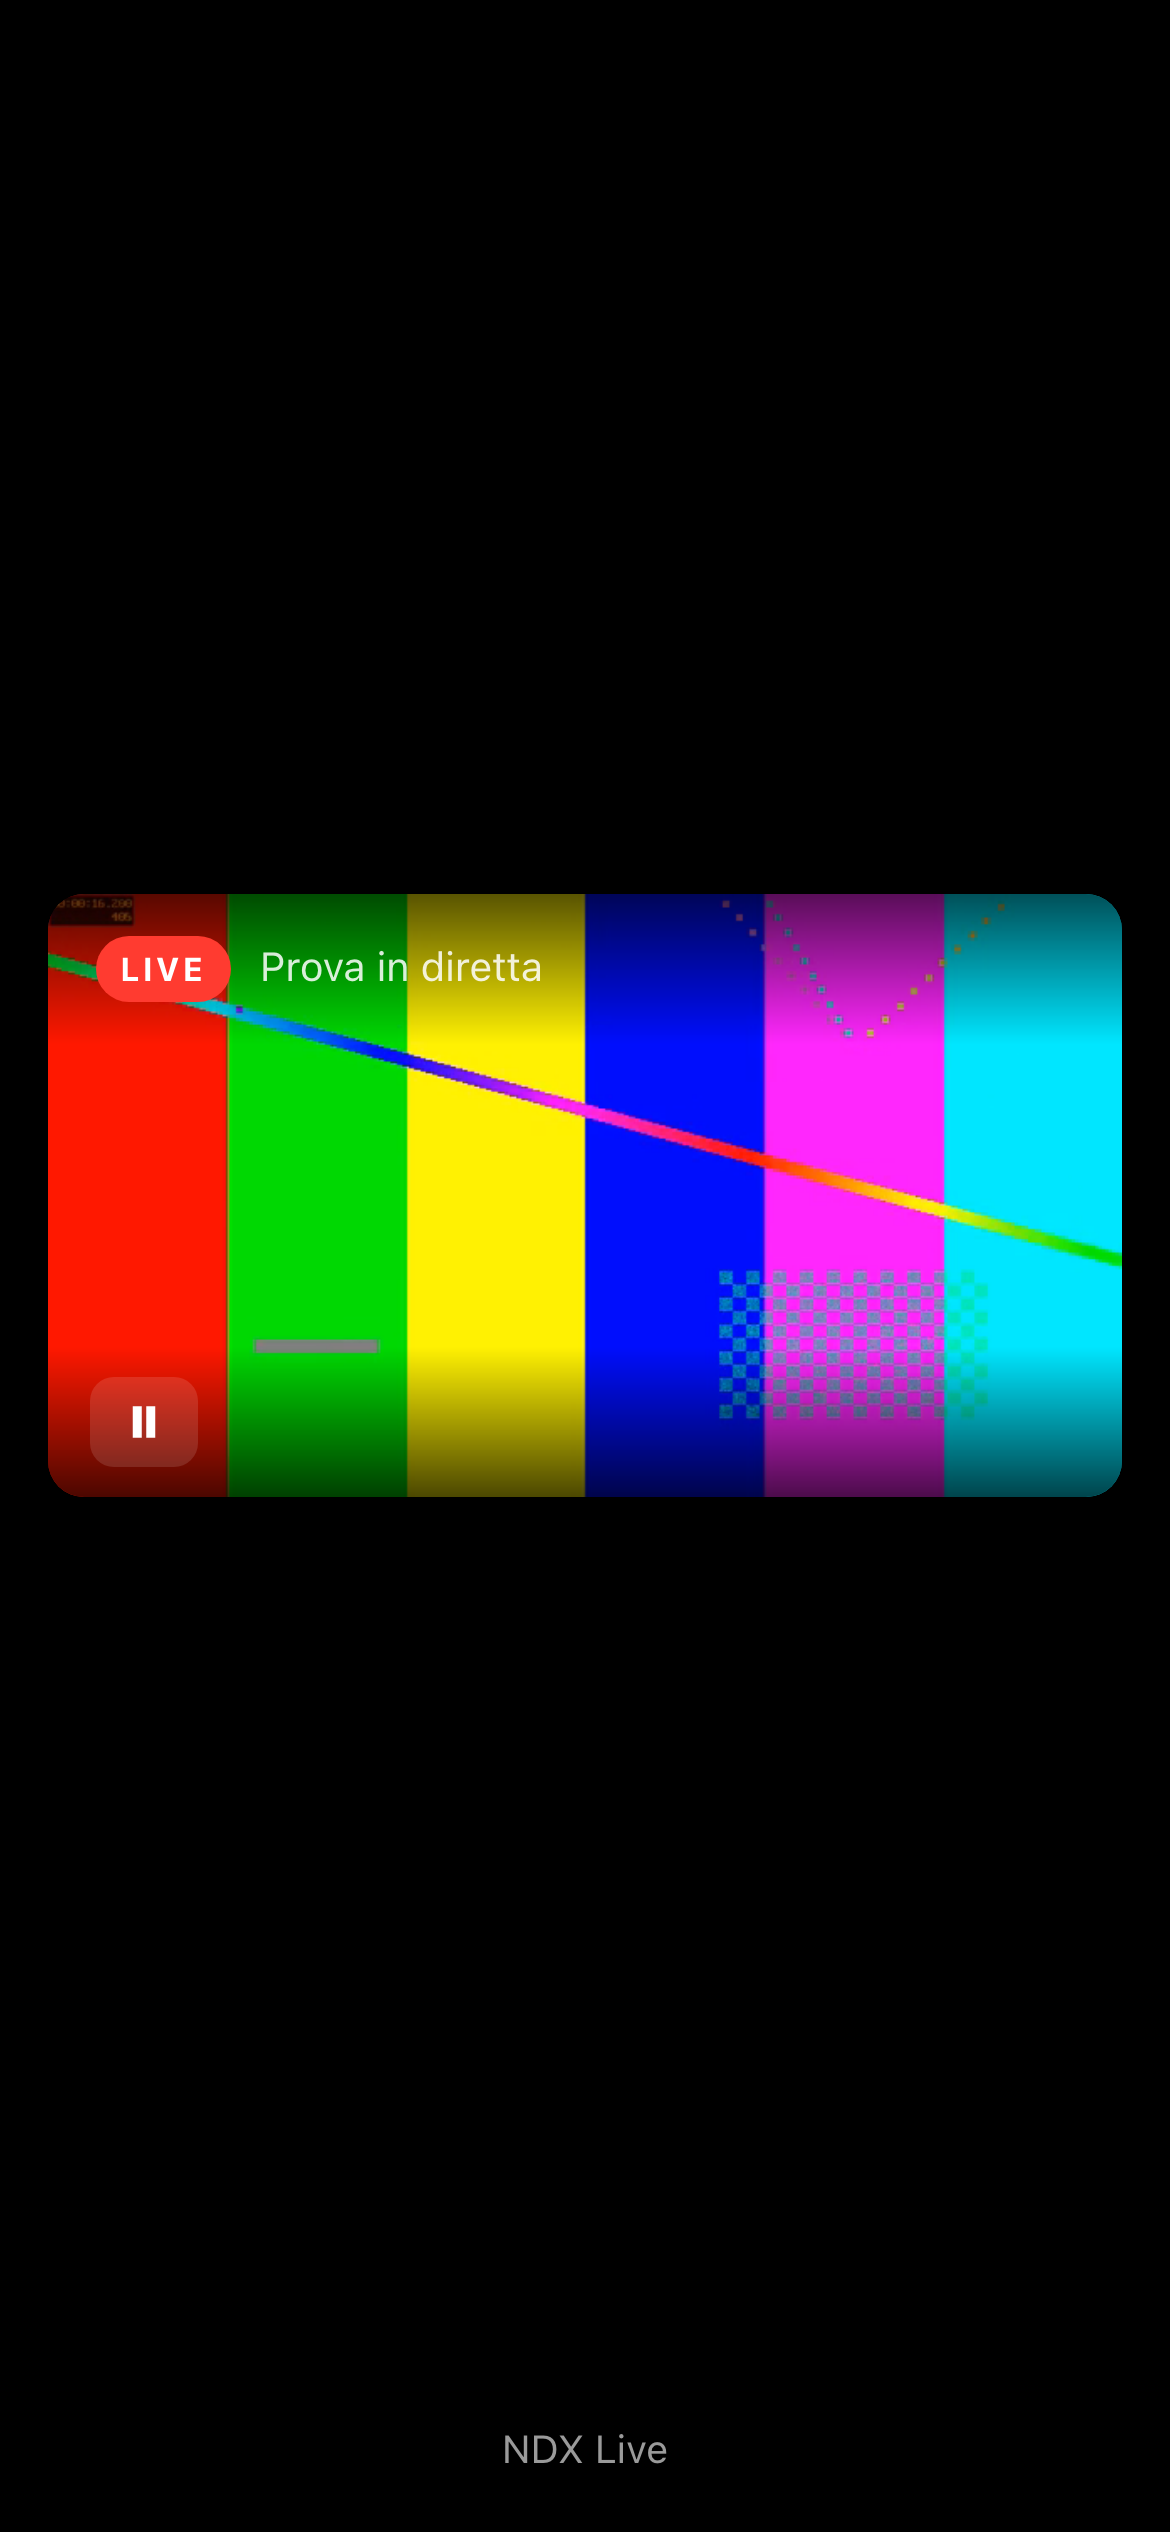
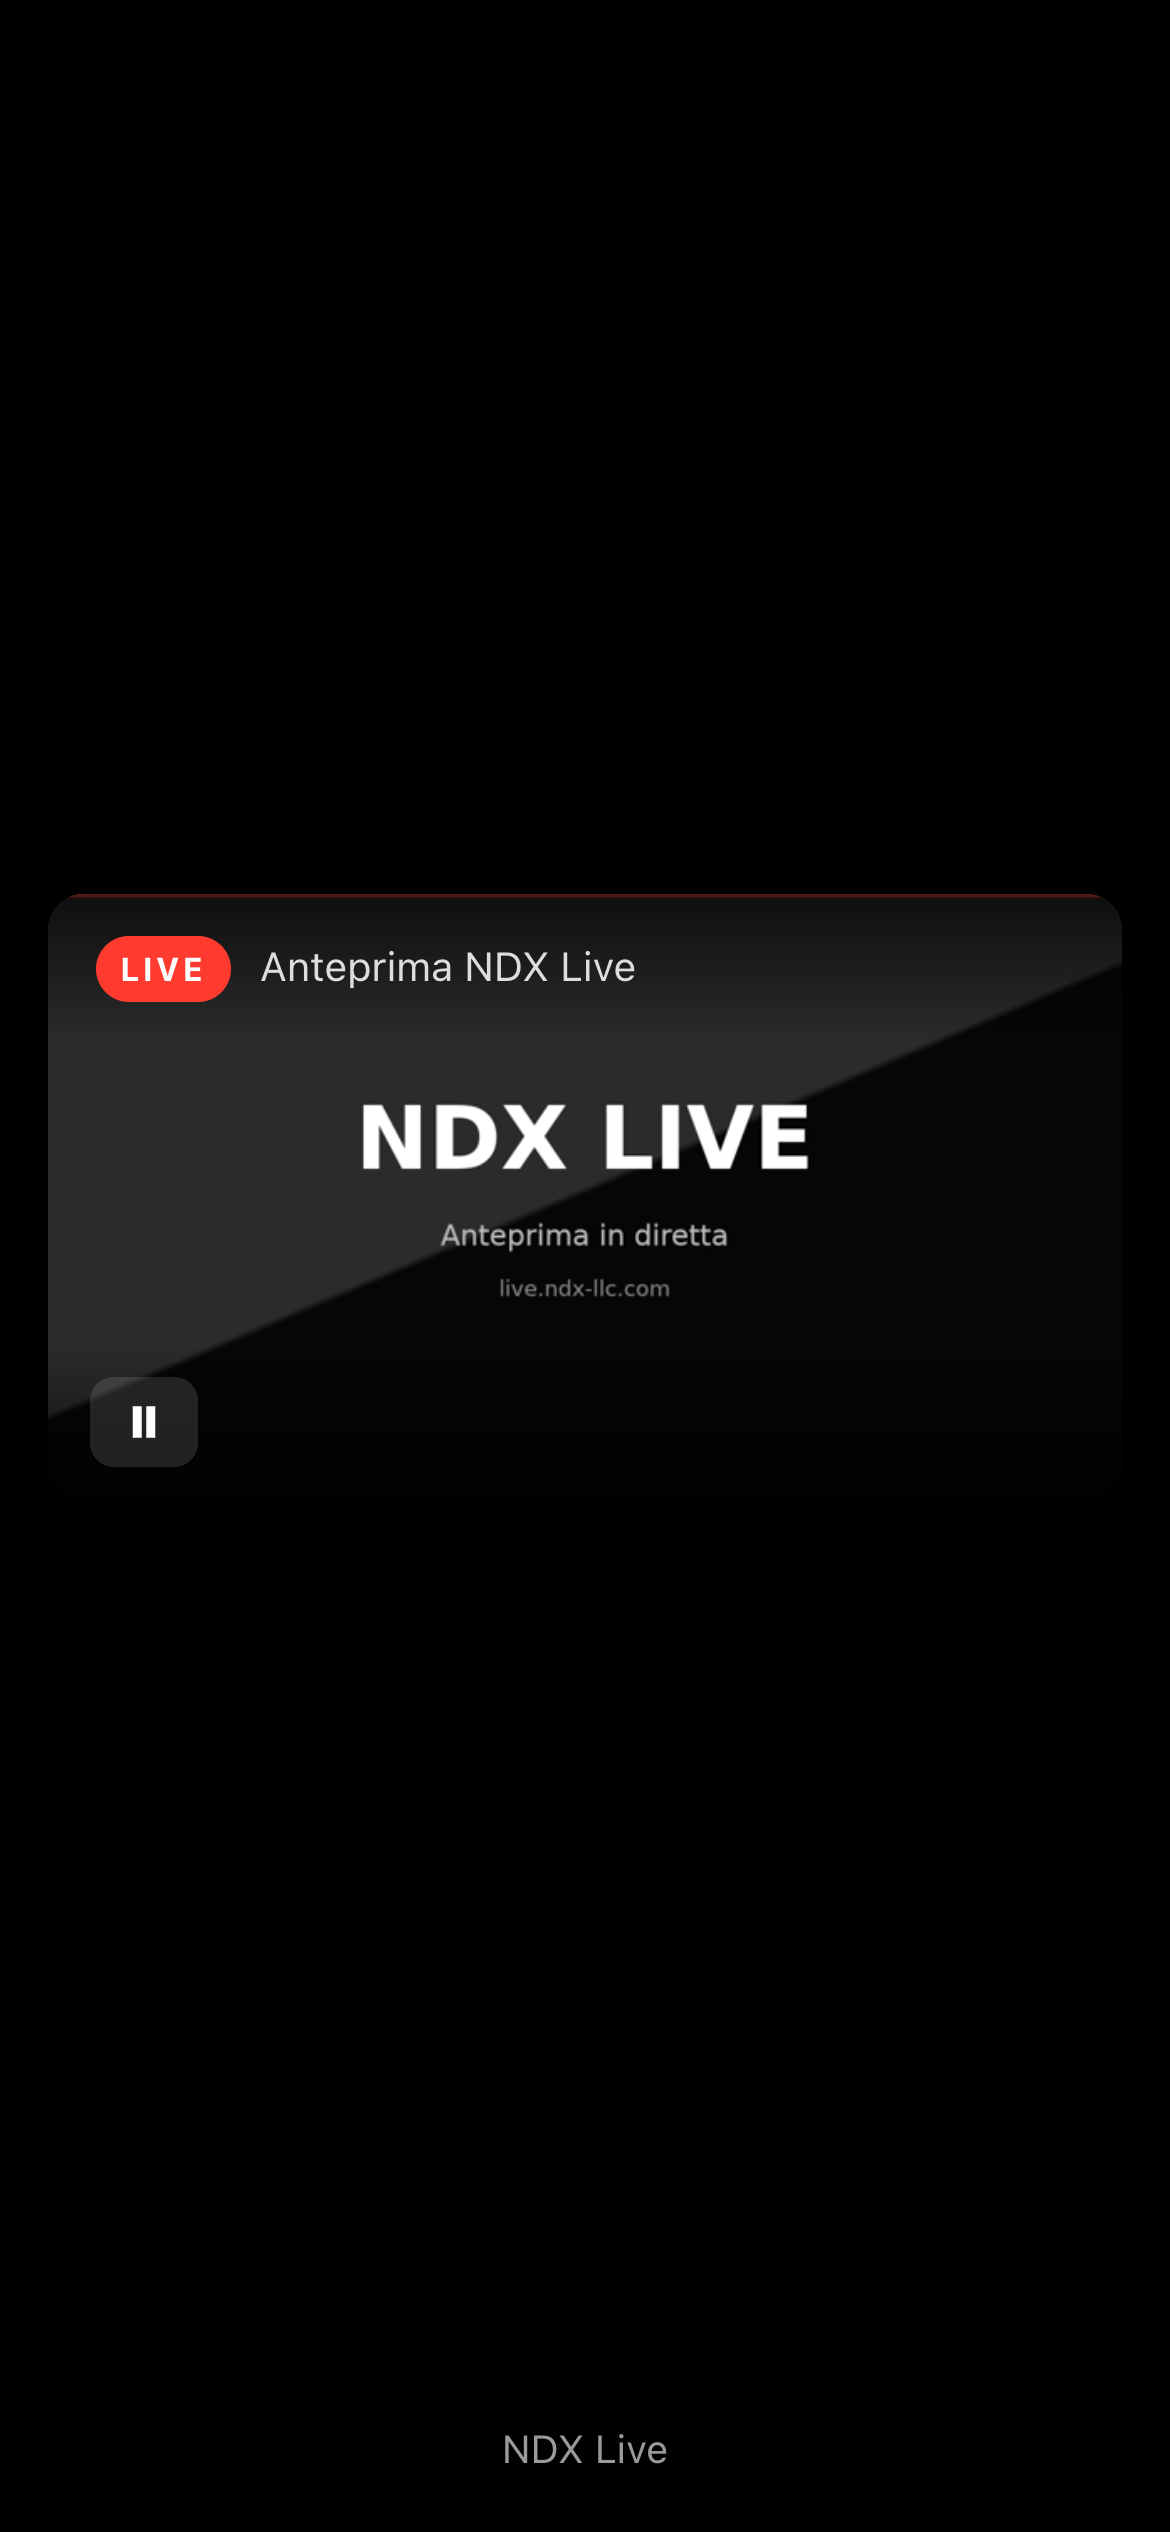
docs: production screenshots from a real live stream
The first set was captured with Chromium's headless shell, which renders video
frames black — the player looked crashed. These come from a real Chrome against
https://live.example.com during a live broadcast: the LIVE badge is asserted,
the frame is sampled through a canvas to prove pixels are there, and pause/resume
is exercised before the capture.

Changed region(s): [[0.0308, 0.3432, 0.9846, 0.5928]]

diff --git a/README.md b/README.md
@@ -12,6 +12,9 @@ code is organised around failure, not around convenience. See
 
 ![The player — play and pause, nothing else](docs/screenshots/player.png)
 
+*Both screenshots are captures of a live broadcast on production
+(`https://live.ndx-llc.com`), taken by Playwright through a real Chrome instance.*
+
 ```
  OBS ──RTMP:1935──▶ MediaMTX (ingest, loopback-only readers)
                          │
